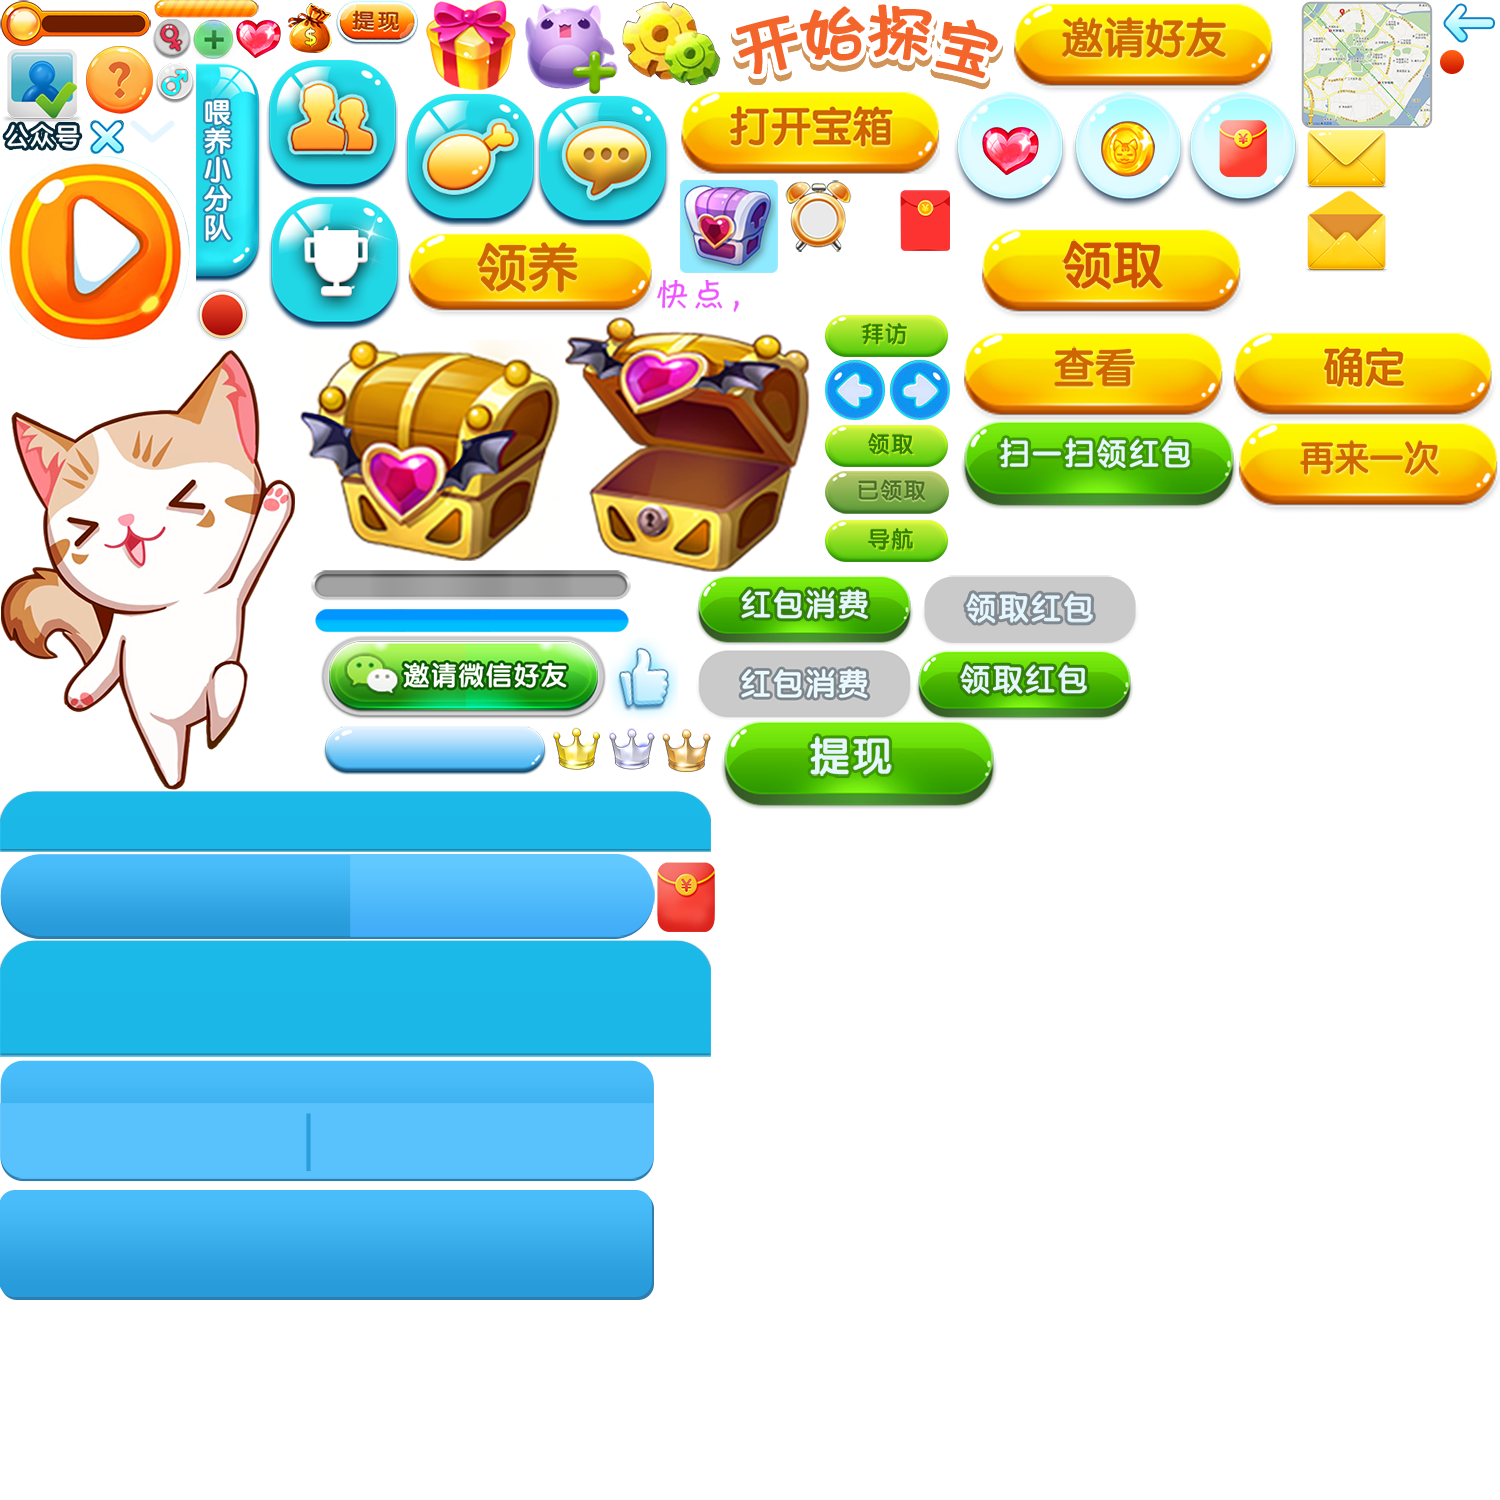
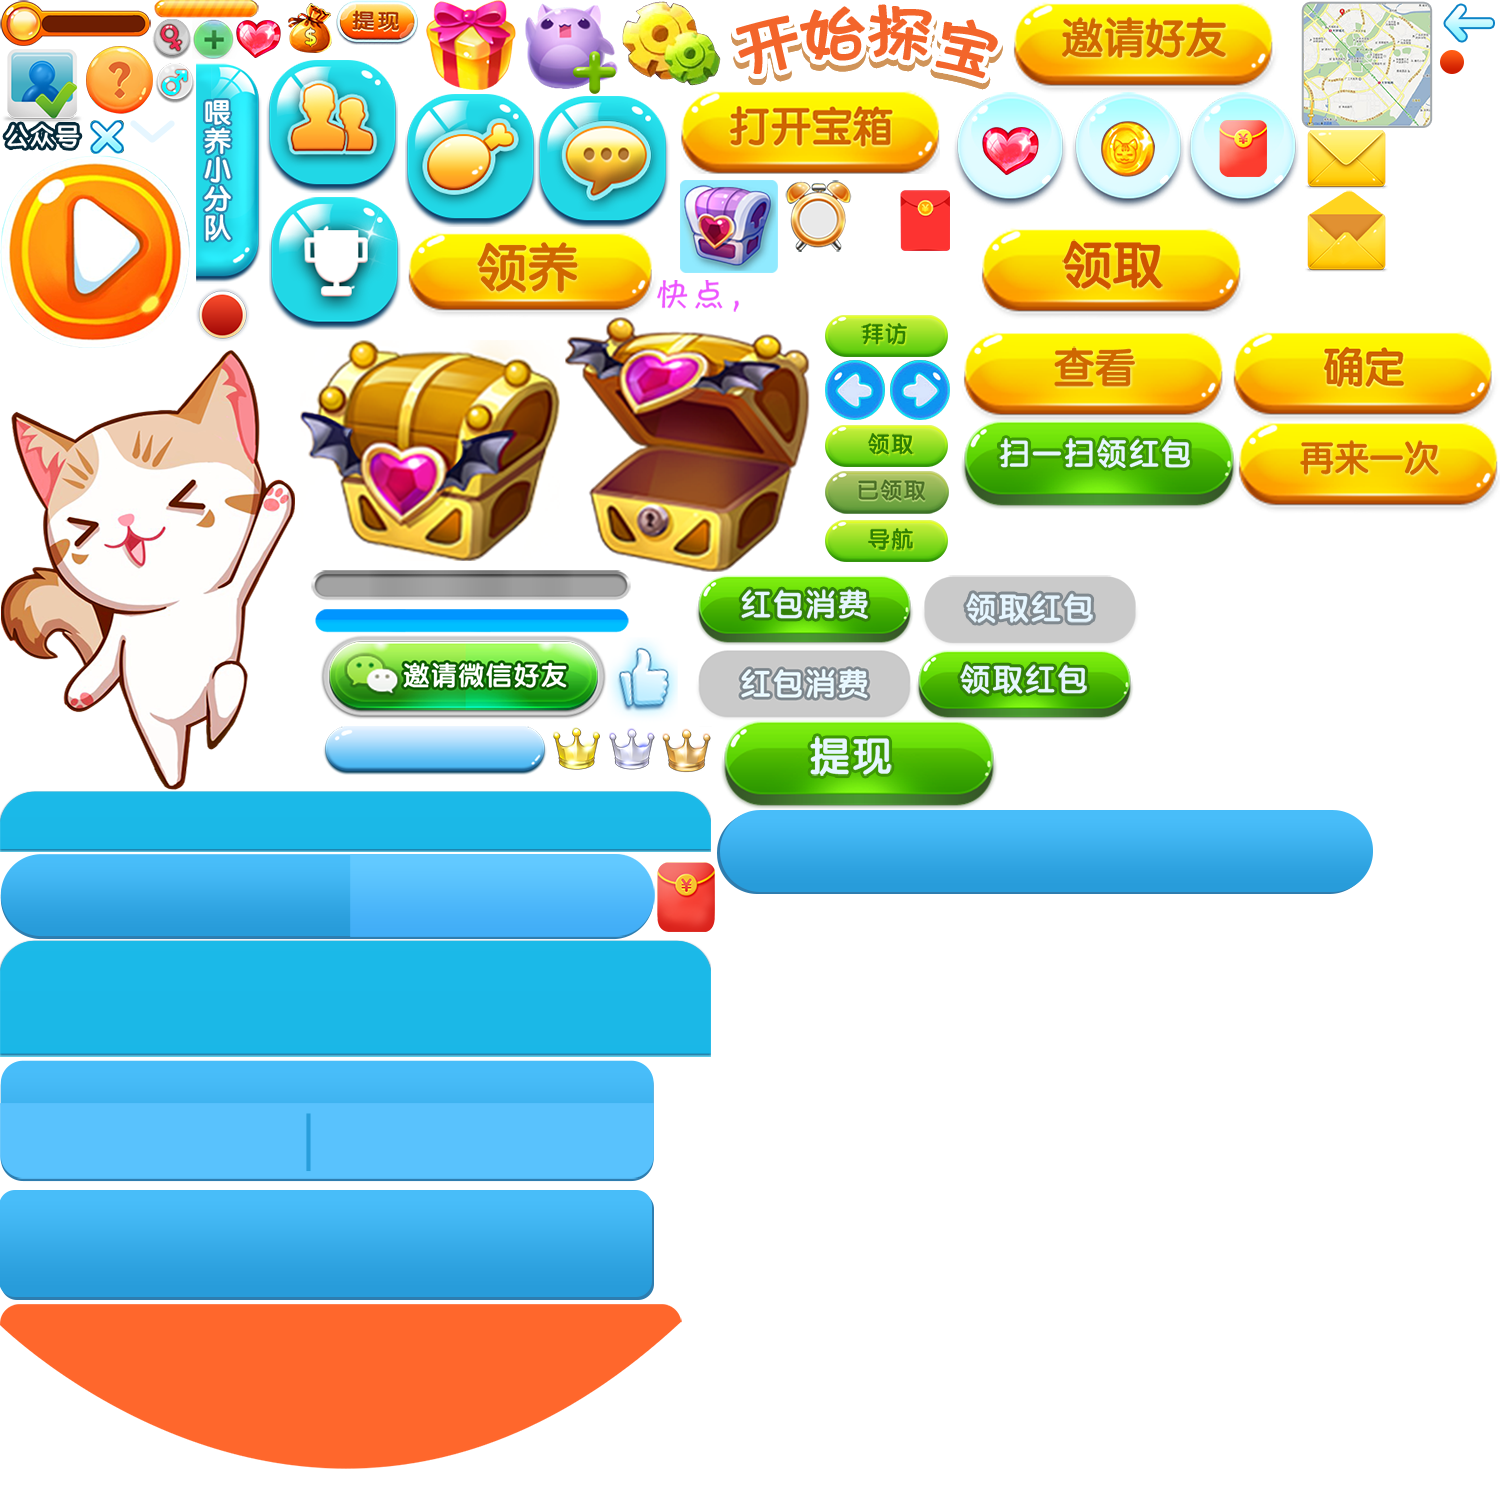
s

Changed region(s): [[0.0, 0.8587, 0.46, 0.9813], [0.46, 0.5213, 0.92, 0.6133]]

diff --git a/xunbao/js/page.js b/xunbao/js/page.js
@@ -11,6 +11,7 @@ var imgData = [
     {name:"bg1",path:imgsrc+"./images/bg1.jpg"},
     {name:"bg2",path:imgsrc+"./images/bg2.jpg"},
     {name:"hint1",path:imgsrc+"./images/hint1.jpg"},
+    {name:"hint2",path:imgsrc+"./images/hint2.jpg"},
     {name:"acpic1",path:imgsrc+"./images/acpic1.png"},
     {name:"infoframe",path:imgsrc+"./images/infoframe.png"},
     {name:"crashframe",path:imgsrc+"./images/crashfame.jpg"},
@@ -64,8 +65,9 @@ function loading_gameData(){
             imglist = result;
             stage.removeChild(loadinglayer);
             loadinglayer = null;
-            homePage('male');
-            crashPage();
+            selectPage();
+            //homePage('male');
+            //MoneybagListPage();
         }
     );
 }
@@ -417,6 +419,116 @@ var p = {
     }
 };
 for(var k in p)Game.prototype[k]=p[k];
+
+//恭喜获得红包
+function getMoneybagPage(){
+    var upLayer = new LSprite();
+    stage.addChild(upLayer);
+    upLayer.graphics.drawRect(0,'#000',[0,0,750,1333],true,'rgba(0,0,0,0.7)');
+    upLayer.graphics.drawRoundRect(0,'#000',[20,275,710,650,36],true,'#65d7f1');
+    upLayer.graphics.drawRoundRect(0,'#000',[45,365,660,530,20],true,'#e6f6ff');
+
+    var tbg = new Zimg([imglist['icons'],0,790,710,61],20,275);
+    upLayer.addChild(tbg);
+
+    var title = new LTextField();
+    title.text = '恭喜你获得';
+    title.size = 36;
+    title.color = '#fff';
+    title.font = '微软雅黑';
+    title.textAlign = 'center';
+    title.x = 375;
+    title.y = 280;
+    upLayer.addChild(title);
+
+    var btnClose = new BtnClose(function(){
+        stage.removeChild(upLayer);
+        upLayer = null;
+    });
+    btnClose.x = 670;
+    btnClose.y = 290;
+    upLayer.addChild(btnClose);
+
+    var hint = new Zimg([imglist['hint2']],200,380);
+    upLayer.addChild(hint);
+
+    var money = new LTextField();
+    money.text = '5.0';
+    money.size = 36;
+    money.color = '#ec5f01';
+    money.textAlign = 'center';
+    money.x = 375;
+    money.y = 630;
+    upLayer.addChild(money);
+
+    var info = new LTextField();
+    info.text = '说明：过关红包需要在下一关才能领取红包\n　　　可在个人中心查看.';
+    info.size = 22;
+    info.color = '#fc8731';
+    info.x = 190;
+    info.y = 700;
+    info.width = 420;
+    info.setWordWrap(true,20);
+    upLayer.addChild(info);
+
+    var btnInvite = new ZRimg([imglist['icons'],964,330,260,84],-130,-42);
+    btnInvite.x = 375;
+    btnInvite.y = 820;
+    upLayer.addChild(btnInvite);
+    btnInvite.addEventListener(LMouseEvent.MOUSE_DOWN,function(){
+        Zclick.call(btnInvite,function(){
+            stage.removeChild(upLayer);
+            upLayer = null;
+        })
+    })
+}
+
+//红包列表1
+function MoneybagListPage(){
+    var upLayer = new LSprite();
+    stage.addChild(upLayer);
+    upLayer.graphics.drawRect(0,'#000',[0,0,750,1333],true,'rgba(0,0,0,0.7)');
+    upLayer.graphics.drawRoundRect(0,'#000',[20,175,710,1080,36],true,'#65d7f1');
+    upLayer.graphics.drawRoundRect(0,'#000',[35,265,680,960,20],true,'#e6f6ff');
+
+    var tbg = new Zimg([imglist['icons'],0,790,710,61],20,175);
+    upLayer.addChild(tbg);
+
+    var btnClose = new BtnClose(function(){
+        stage.removeChild(upLayer);
+        upLayer = null;
+    });
+    btnClose.x = 670;
+    btnClose.y = 190;
+    upLayer.addChild(btnClose);
+
+    var redTop = new Zimg([imglist['icons'],0,1304,682,165],35,265);
+    upLayer.addChild(redTop);
+
+    var head = new Portrait();
+    head.x = 375;
+    head.y = 420;
+    upLayer.addChild(head);
+
+    var name = new LTextField();
+    name.text = '卡动猫的红包';
+    name.size = 28;
+    name.color = '#e89901';
+    name.textAlign = 'center';
+    name.x = 375;
+    name.y = 480;
+    upLayer.addChild(name);
+
+    var price = name.clone();
+    price.text = '10.0元';
+    price.size = 44;
+    price.color = '#000';
+    price.y = 520;
+    upLayer.addChild(price);
+
+    var erweima = new LSprite();
+    erweima.graphics.drawRoundRect()
+}
 
 //升级方式
 function uploadPage(){

diff --git a/xunbao/js/components.js b/xunbao/js/components.js
@@ -554,7 +554,18 @@ MoneBagItem.prototype.onClick = function(event){
 
 };
 
-
+//头像
+function Portrait(){
+    base(this,LSprite,[]);
+    var self = this;
+    var cover = new LSprite();
+    cover.graphics.drawArc(1,'#f00',[0,0,50,0,Math.PI*2]);
+    self.pic = new Zimg([imglist['person']]);
+    self.pic.x = -self.pic.getWidth()/2;
+    self.pic.y = -self.pic.getHeight()/2;
+    self.pic.mask = cover;
+    self.addChild(self.pic);
+}
 
 
 
